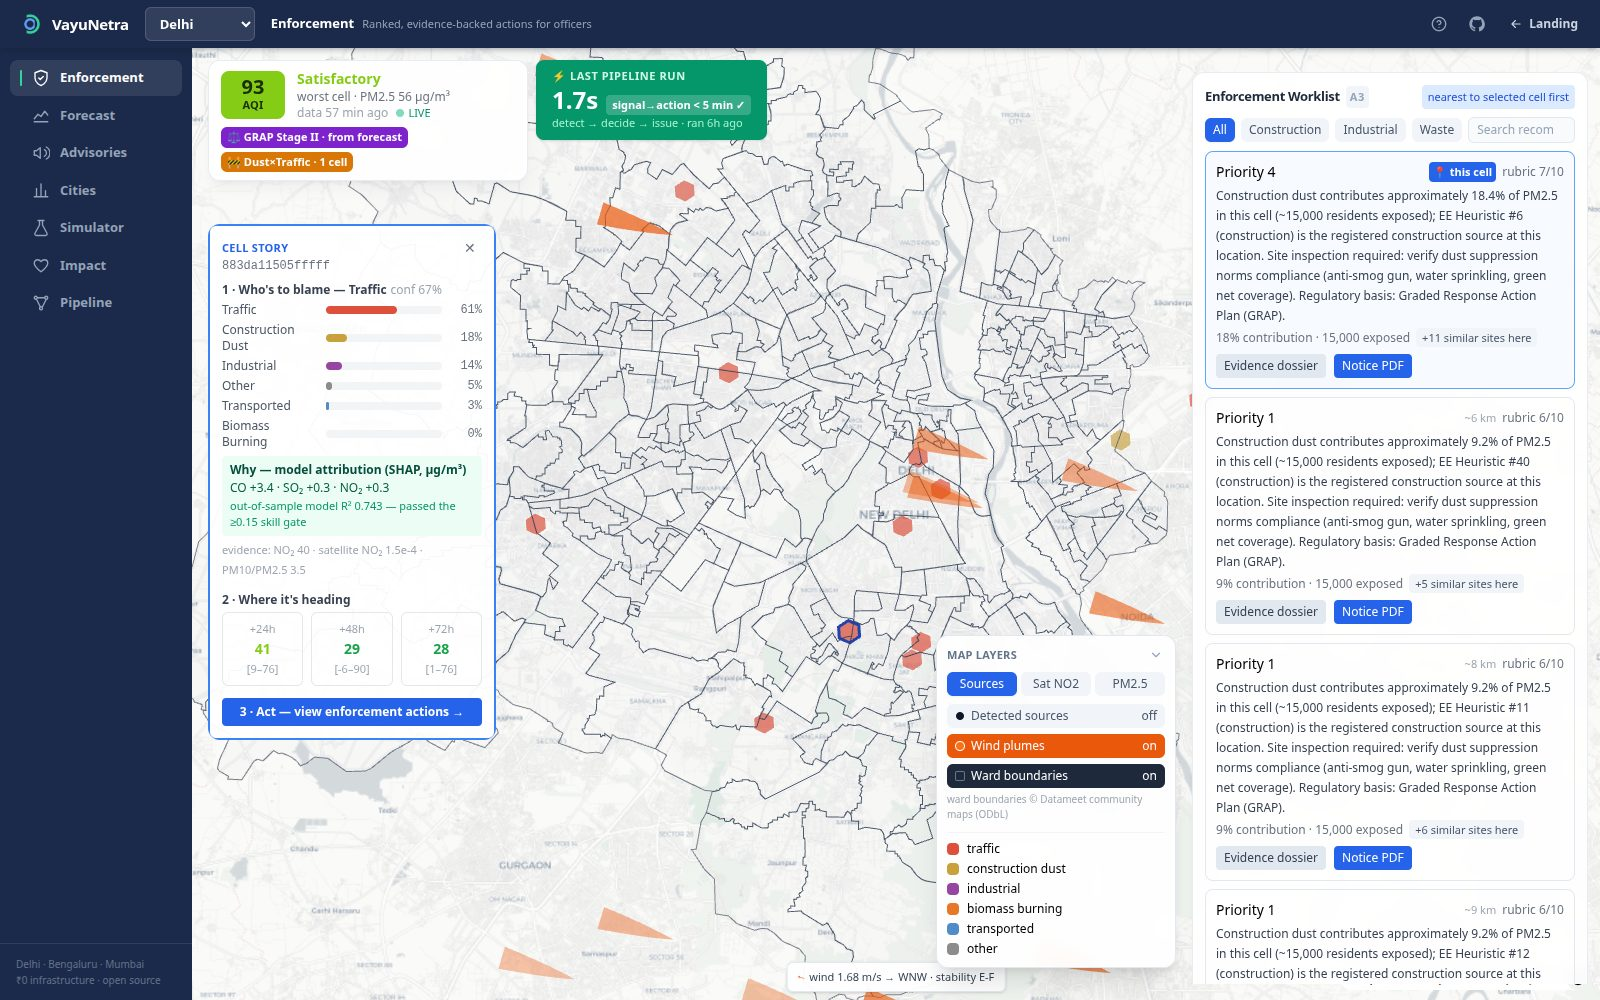
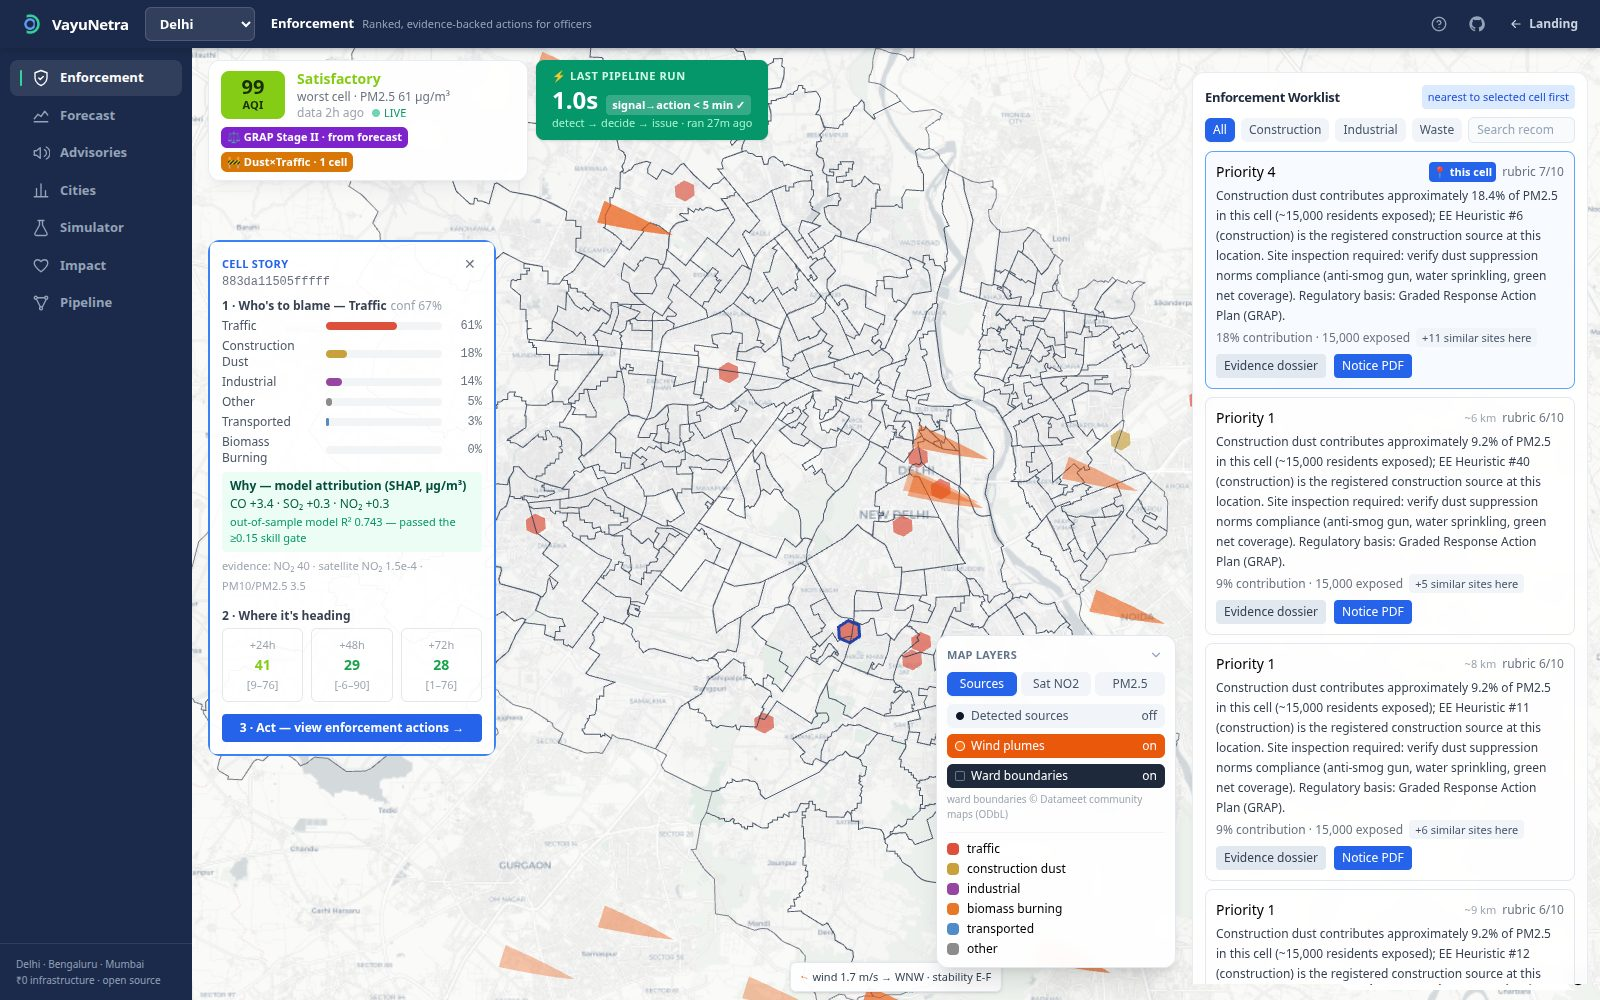
fix(audit): submission-readiness sweep — every stale surface found and fixed
Full-app Playwright audit (landing + all 7 console sections + map modes/
overlays + mobile + docs), findings fixed:

- Multi-City Compare subtitle was a hardcoded fixture-era line ('Stage-1
  demo snapshot') served from agents/multicity.py — now computed from the
  live dominant sources ('Delhi: traffic · Bengaluru: transported ·
  Mumbai: industrial'); comparison fixture regenerated from live
- Simulator: near-zero-impact runs (e.g. waste-burn ban in monsoon Delhi)
  looked broken — now an honest amber note explains the ~0% source share
  and suggests a mix-matched intervention; stray E5 badge dropped
- Dossier citation excerpts no longer show kb table-header debris
  ('ENFORCEMENT ACTIONS AND PENALTIES Violation Type | Penalty') — the
  cleaner cuts where SHOUTING/table junk starts
- Architecture diagram (all 3 SVG copies) brought current: plumes + wards
  console layers, IVR in+out calls, /plume + /history endpoints, 25+
- Landing hero console.jpg recaptured with the final tag-free shell

Verified clean: anchors, all images load, every section renders live data,
filters/search/dossier/notice/simulate/optimize/broadcast-cancel/traces
flows work, 3 map modes + 3 overlays + collapse, mobile bottom-nav + tour,
no console errors anywhere. 159 backend + 6 e2e tests pass.

diff --git a/web/src/WhatIfPanel.tsx b/web/src/WhatIfPanel.tsx
@@ -146,6 +146,13 @@ export default function WhatIfPanel({ city }: { city: string }) {
             <div className="text-xs font-medium text-gray-800">{res.intervention.description}</div>
           )}
           {res.intervention?.ward && <div className="text-[11px] text-gray-500">{res.intervention.ward}</div>}
+          {Number(avgDelta) === 0 && (
+            <div className="mt-2 rounded-md bg-amber-50 p-2 text-[11px] leading-4 text-amber-800">
+              Near-zero effect — honest result: this source contributes ~0% of the city's current
+              PM2.5 mix (see the blame map), so banning it changes little today. Try an intervention
+              matching the dominant source, e.g. a traffic or construction measure.
+            </div>
+          )}
           <div className="mt-2 grid grid-cols-2 gap-x-2 gap-y-1 text-xs text-gray-700">
             <span>
               avg ΔAQI <b>{avgDelta}</b>
@@ -168,7 +175,7 @@ export default function WhatIfPanel({ city }: { city: string }) {
         <div className="flex items-center justify-between gap-2">
           <div>
             <div className="font-semibold">
-              Optimizer packages <span className="text-[11px] font-normal text-gray-400">E5</span>
+              Optimizer packages
             </div>
             <div className="text-xs text-gray-600">Ranked actions under the inspector-hour budget.</div>
           </div>

diff --git a/web/src/EnforcementPanel.tsx b/web/src/EnforcementPanel.tsx
@@ -60,7 +60,13 @@ function normalizePatch(patch: Dossier["satellite_patch"]): SatellitePatch | nul
 
 /** kb-chunk excerpts carry raw document scaffolding (===== rules, ALL-CAPS headers). */
 function cleanExcerpt(text: string): string {
-  const s = text.replace(/[=_*\-]{4,}/g, " ").replace(/\s+/g, " ").trim();
+  let s = text.replace(/[=_*\-]{4,}/g, " ").replace(/\s+/g, " ").trim();
+  // kb chunks carry table headers and SHOUTING section titles mid-excerpt
+  // ("ENFORCEMENT ACTIONS AND PENALTIES Violation Type | Penalty …") — cut
+  // the excerpt where that debris starts rather than showing it to officers.
+  const junk = s.search(/(?:[A-Z][A-Z ]{11,}(?::| [A-Z]))|(?:\S+ \| )/);
+  if (junk > 40) s = s.slice(0, junk).trim();
+  s = s.replace(/[|•·]\s*$/, "").trim();
   return s.length > 180 ? `${s.slice(0, 180)}…` : s;
 }
 

diff --git a/agents/multicity.py b/agents/multicity.py
@@ -80,7 +80,13 @@ def build_comparison(cities: list[dict], aqi_rows: list[dict], forecast_rows: li
             "highest_risk_city": max(cards, key=lambda r: r["forecast_24h_pm25"])["city_id"] if cards else None,
             "highest_burden_city": max(
                 cards, key=lambda r: r["health"]["attributable_deaths_per_year"])["city_id"] if cards else None,
-            "shared_pattern": "traffic + construction dominate the Stage-1 demo snapshot",
+            # computed from the live dominant sources, not a canned line
+            "shared_pattern": (
+                " · ".join(
+                    f"{c['name']}: {str(c['dominant_source']).replace('_', ' ')}" for c in cards
+                )
+                or "no live attribution yet"
+            ),
             "impact_basis": "annual burden via long-term CRF (WHO HRAPIE / Chen & Hoek 2020) "
                             "× cited city population & annual PM2.5 (UN WUP 2018, IQAir 2023)",
         },
